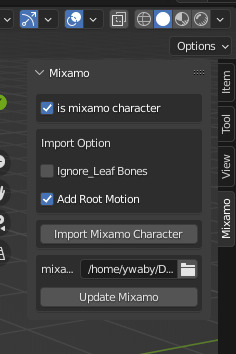
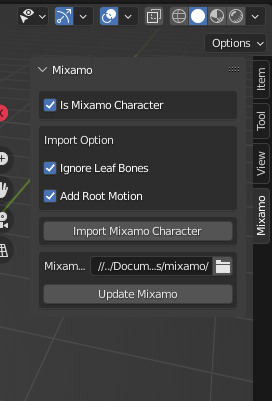
add dae support

diff --git a/__init__.py b/__init__.py
@@ -6,7 +6,7 @@
 import bpy
 import os
 from bpy_extras.io_utils import ImportHelper
-from bpy.props import StringProperty, BoolProperty, PointerProperty
+from bpy.props import StringProperty, BoolProperty, PointerProperty, CollectionProperty
 from bpy.types import Operator
 
 bl_info = {
@@ -106,22 +106,93 @@ class MIXAMO_OT_ImportCharater(Operator, ImportHelper):
     bl_idname = "mixamo.import_character"
     bl_label = "Import Mixamo Character"
     directory = StringProperty(
-        name="Character Dir",
+        name="File Dir",
     )
     filter_glob: StringProperty(
-        default="*.fbx",
+        default="*.fbx;*.dae",
         options={'HIDDEN'},
         maxlen=255,  # Max internal buffer length, longer would be clamped.
     )
+    filename: StringProperty(
+        name="File Name",
+    )
 
     def execute(self, context:  bpy.context):
-        mixamo_fix_import_fbx(context, self.filepath)
+        name, ext = os.path.splitext(self.filename)
+        if ext == '.fbx':
+            mixamo_fix_import_fbx(context, self.filepath)
+        elif ext == '.dae':
+            mixamo_fix_import_dae(context, self.filepath)
+        else:
+            return {'CANCELLED'}
         armature = context.active_object
         armature.is_mixamo_character = True
         action_2_NAL(armature, armature.animation_data.action)
         return{'FINISHED'}
 
-def mixamo_fix_import_fbx(context, dir:str):
+
+def mixamo_fix_import_dae(context: bpy.context, dir: str):
+    """import mixamo (*.dae), 
+    rename ,
+    add root motion, 
+    etc. 
+    BUG skin move
+    root motion 
+    """
+    file = os.path.basename(dir)
+    print(f"input file:{dir}")
+    name, ext = os.path.splitext(file)
+    bpy.ops.wm.collada_import(
+        filepath=dir,
+        auto_connect=True,
+        # ignore_leaf_bones=context.scene.mixamo.ignore_leaf_bones, #TODO set when suport
+    )
+    arm_obj = [
+        obj for obj in context.selected_objects if obj.type == 'ARMATURE'][0]
+    context.view_layer.objects.active = arm_obj
+    anim_data: bpy.types.AnimData = arm_obj.animation_data
+    armature: bpy.types.Armature = arm_obj.data
+    action = anim_data.action
+    fcurves = action.fcurves
+    # rename Action
+    action.name = name
+    # rename bones
+    for k, v in bone_rename_maps.items():
+        k = k.replace('mixamorig:', 'mixamorig_')
+        if k in armature.bones:
+            armature.bones[k.replace('mixamorig:', 'mixamorig_')].name = v
+    # fix scale
+    scale = arm_obj.scale
+    scale_animation(fcurves, scale)
+    # fix rotation
+    bpy.ops.object.transform_apply(
+        location=True, rotation=True, scale=True)
+    # add root motion from hips
+    if context.scene.mixamo.add_root_motion:
+        # TODO direct copy fcurve data from hips to root
+        # add root bone
+        mixamo_add_root_motion(armature, fcurves)
+
+
+def mixamo_add_root_motion(armature, fcurves):
+    """add root motion"""
+    # add root bone
+    bpy.ops.object.mode_set(mode='EDIT', toggle=False)
+    root = armature.edit_bones.new('root')
+    root.head = (0, 0, 0)
+    root.tail = (0, 0, 0.25)
+    armature.edit_bones['hips'].parent = root
+    bpy.ops.object.mode_set(mode='OBJECT', toggle=False)
+    # hips location to rootbone
+    fcurves.find(data_path='pose.bones["hips"].location',
+                 index=0).data_path = 'pose.bones["root"].location'
+    fcurves.find(data_path='pose.bones["hips"].location',
+                 index=1).data_path = 'pose.bones["root"].location'
+    fcurves.find(data_path='pose.bones["hips"].location',
+                 index=2).data_path = 'pose.bones["root"].location'
+
+
+def mixamo_fix_import_fbx(context, dir: str):
     """import mixamo (*.fbx), 
     rename ,
     fix scale,
@@ -135,10 +206,13 @@ def mixamo_fix_import_fbx(context, dir:str):
         filepath=dir,
         ignore_leaf_bones=context.scene.mixamo.ignore_leaf_bones,
         automatic_bone_orientation=True)
-    anim_data:bpy.types.AnimData = context.active_object.animation_data
-    armature: bpy.types.Armature = context.active_object.data
+    arm_obj = [
+        obj for obj in context.selected_objects if obj.type == 'ARMATURE'][0]
+    context.view_layer.objects.active = arm_obj
+    anim_data: bpy.types.AnimData = arm_obj.animation_data
+    armature: bpy.types.Armature = arm_obj.data
     action = anim_data.action
-    fcurves=action.fcurves
+    fcurves = action.fcurves
     # rename Action
     action.name = name
     # rename bones
@@ -147,7 +221,7 @@ def mixamo_fix_import_fbx(context, dir:str):
             armature.bones[k].name = v
 
     # fix scale
-    scale = context.active_object.scale
+    scale = arm_obj.scale
     scale_animation(fcurves, scale)
 
     # fix rotation
@@ -156,18 +230,7 @@ def mixamo_fix_import_fbx(context, dir:str):
 
     # add root motion from hips
     if context.scene.mixamo.add_root_motion:
-        #TODO direct copy fcurve data from hips to root
-        # add root bone
-        bpy.ops.object.mode_set(mode='EDIT', toggle=False)
-        root = armature.edit_bones.new('root')
-        root.head = (0, 0, 0)
-        root.tail = (0, 0, 0.25)
-        armature.edit_bones['hips'].parent = root
-        bpy.ops.object.mode_set(mode='OBJECT', toggle=False)
-        # hips location to rootbone
-        fcurves.find(data_path='pose.bones["hips"].location',index=0).data_path='pose.bones["root"].location'
-        fcurves.find(data_path='pose.bones["hips"].location',index=1).data_path='pose.bones["root"].location'
-        fcurves.find(data_path='pose.bones["hips"].location',index=2).data_path='pose.bones["root"].location'
+        mixamo_add_root_motion(armature, fcurves)
 
 
 class MIXAMO_OT_Update(Operator):
@@ -189,18 +252,21 @@ class MIXAMO_OT_Update(Operator):
             self.report({'WARNING'},
                         'Not Found mixamo character in current scene.')
             return {'CANCELLED'}
-        if len(target_arms) == 1:
+        elif len(target_arms) == 1:
             self.target_arm = target_arms[0]
         else:
             self.report({'WARNING'},
                         'Too many mixamo character in current scene.')
             return {'CANCELLED'}
 
-        input_path = context.scene.mixamo.input_dir
-        files = os.listdir(input_path)
+        input_folder = context.scene.mixamo.input_folder
+        input_folder = bpy.path.abspath(input_folder)
+        files = os.listdir(input_folder)
         for file in files:
             name, ext = os.path.splitext(file)
-            dir = os.path.join(input_path, file)
+            dir = os.path.join(input_folder, file)
+            print('DEBUG')
+            print(dir)
             if name in bpy.data.actions:  # if exist, pass
                 continue
             if ext == '.fbx':
@@ -209,12 +275,13 @@ class MIXAMO_OT_Update(Operator):
                 action_2_NAL(self.target_arm, bpy.data.actions[name])
                 # remove
                 bpy.ops.object.delete()
-            elif ext == '.gltf':
-                continue  # TODO
+            elif ext == '.dae':
+                mixamo_fix_import_dae(context, dir)
+                action_2_NAL(self.target_arm, bpy.data.actions[name])
+                bpy.ops.object.delete()
             else:
                 continue
         return{'FINISHED'}
-
 
 
 class MIXAMO_PT_Main(bpy.types.Panel):
@@ -244,26 +311,27 @@ class MIXAMO_PT_Main(bpy.types.Panel):
         row.operator("mixamo.import_character")
         box = layout.box()
         row = box.row()
-        row.prop(scene.mixamo, "input_dir")
+        row.prop(scene.mixamo, "input_folder")
         row = box.row()
         row.operator("mixamo.update")
 
 
 class MixamoPropertyGroup(bpy.types.PropertyGroup):
-    input_dir: StringProperty(
-        name="Mixamo Path",
-        description="Path to mixamo",
+    input_folder: StringProperty(
+        name="Mixamo Animations Folder",
+        description="Path to mixamo animations folder.",
         maxlen=256,
         default="",
         subtype='DIR_PATH')
     add_root_motion: BoolProperty(
         name='Add Root Motion',
-        description='Add root bone and copy motion from hips',
+        description='Add root bone and copy motion from hips.',
         default=False)
     ignore_leaf_bones: BoolProperty(
         name='Ignore Leaf Bones',
-        description='Remove Leaf Bones ',
+        description='Remove leaf bones.',
         default=False)
+
 
 classes = (
     MixamoPropertyGroup,

diff --git a/README.md b/README.md
@@ -27,18 +27,24 @@ preferences->addons->search "Mixamo Import"
 
 ![screenshot](./screenshot.jpg)
 
+
+workflow
 1. download mixamo animation with skin.
 2. import mixamo character 
 3. download mixamo animations without skin to a folder.
 4. select download folder
 5. update
 
+tips
+- *.dae need skin (without skin will lose armature origin position).
+- *.dae and *.fbx armture is not match, so don't mix use it.
 
 <!-- ## TODO
 - json config for rename bone 
-- support gltf
+- support dae
 - add NLA option if need
 
 BUG
 - can not move frame after import
+- dae import will break animation( reload blend fix it)
  -->
